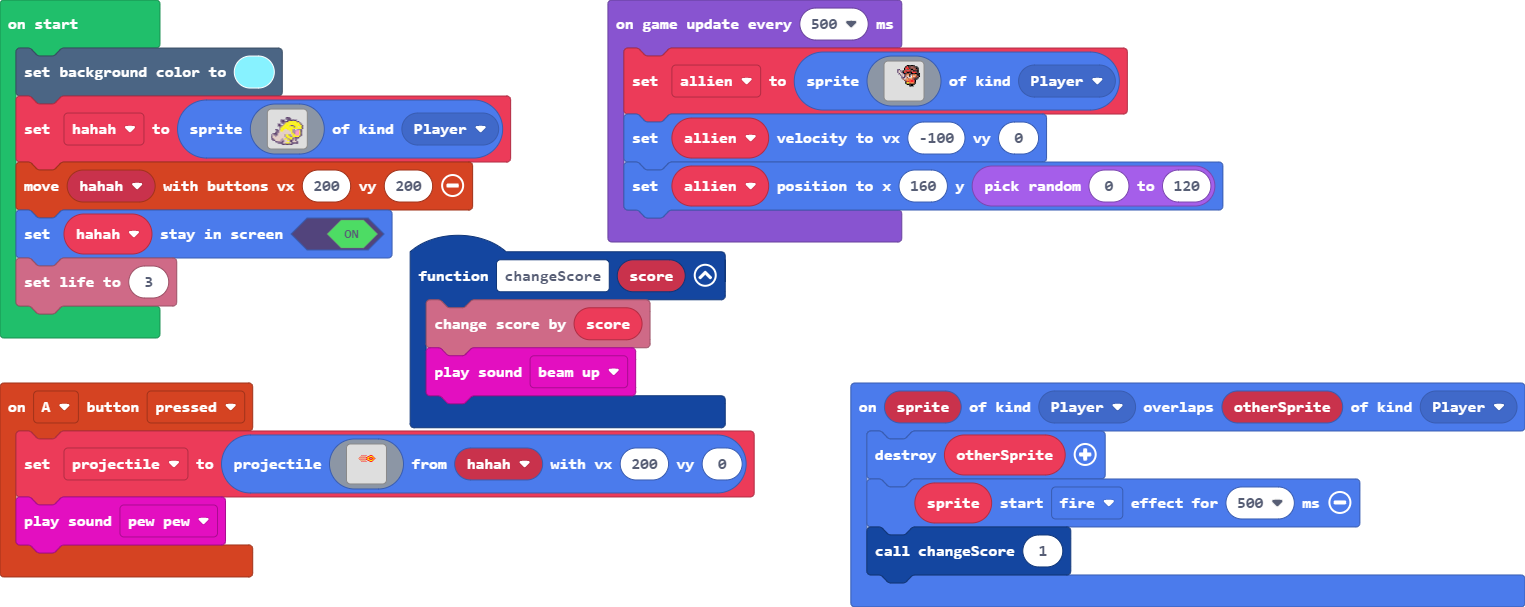
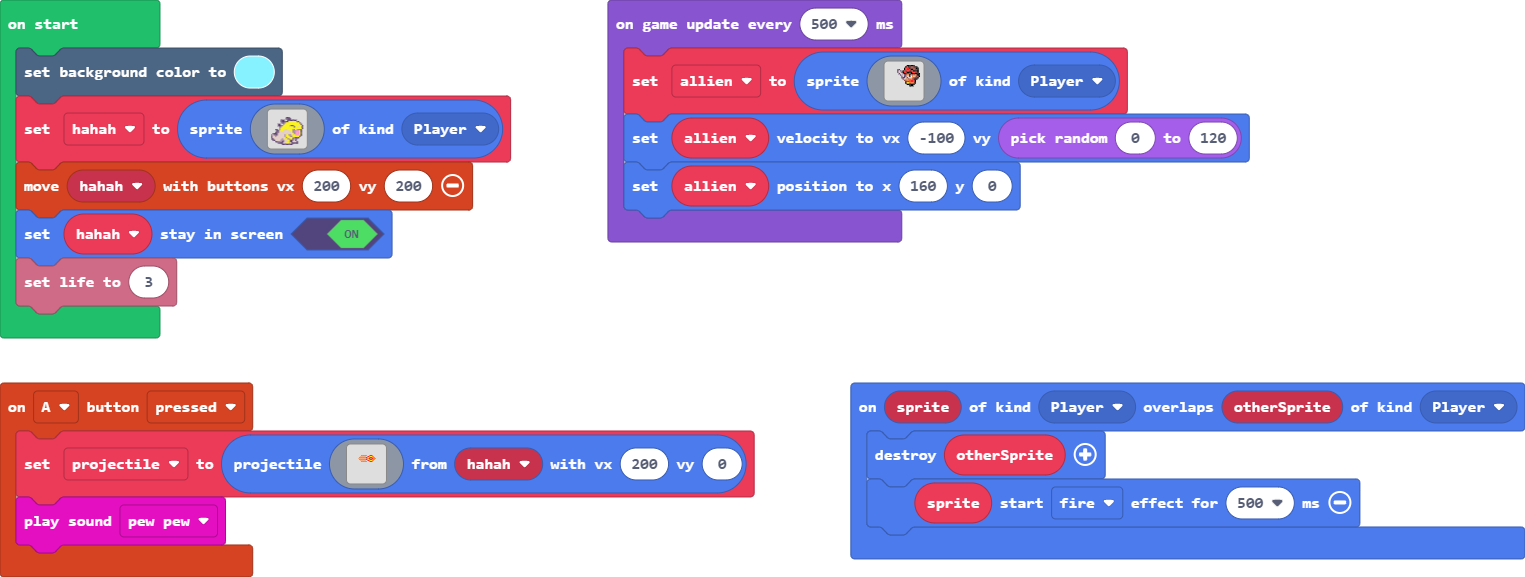
Update main.blocks, main.ts

diff --git a/main.ts b/main.ts
@@ -35,14 +35,9 @@ controller.A.onEvent(ControllerButtonEvent.Pressed, function () {
         `, hahah, 200, 0)
     music.pewPew.play()
 })
-function changeScore (score: number) {
-    info.changeScoreBy(score)
-    music.beamUp.play()
-}
 sprites.onOverlap(SpriteKind.Player, SpriteKind.Player, function (sprite, otherSprite) {
     otherSprite.destroy()
     sprite.startEffect(effects.fire, 500)
-    changeScore(1)
 })
 let allien: Sprite = null
 let projectile: Sprite = null
@@ -104,6 +99,6 @@ game.onUpdateInterval(500, function () {
         ........................
         ........................
         `, SpriteKind.Player)
-    allien.setVelocity(-100, 0)
-    allien.setPosition(160, randint(0, 120))
+    allien.setVelocity(-100, randint(0, 120))
+    allien.setPosition(160, 0)
 })
